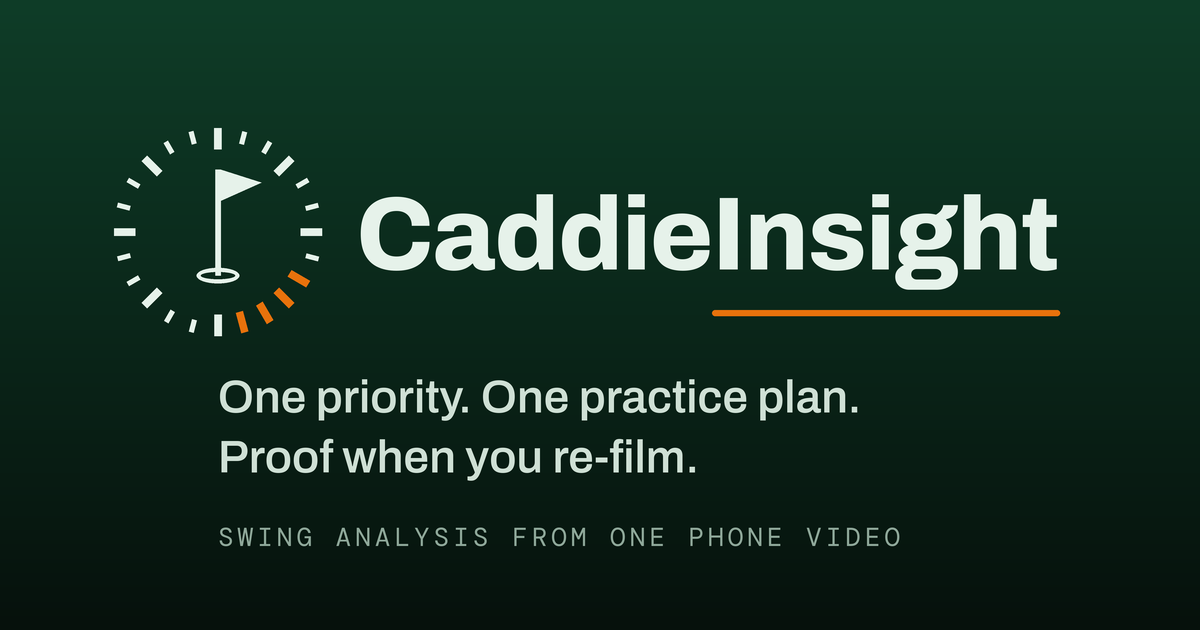
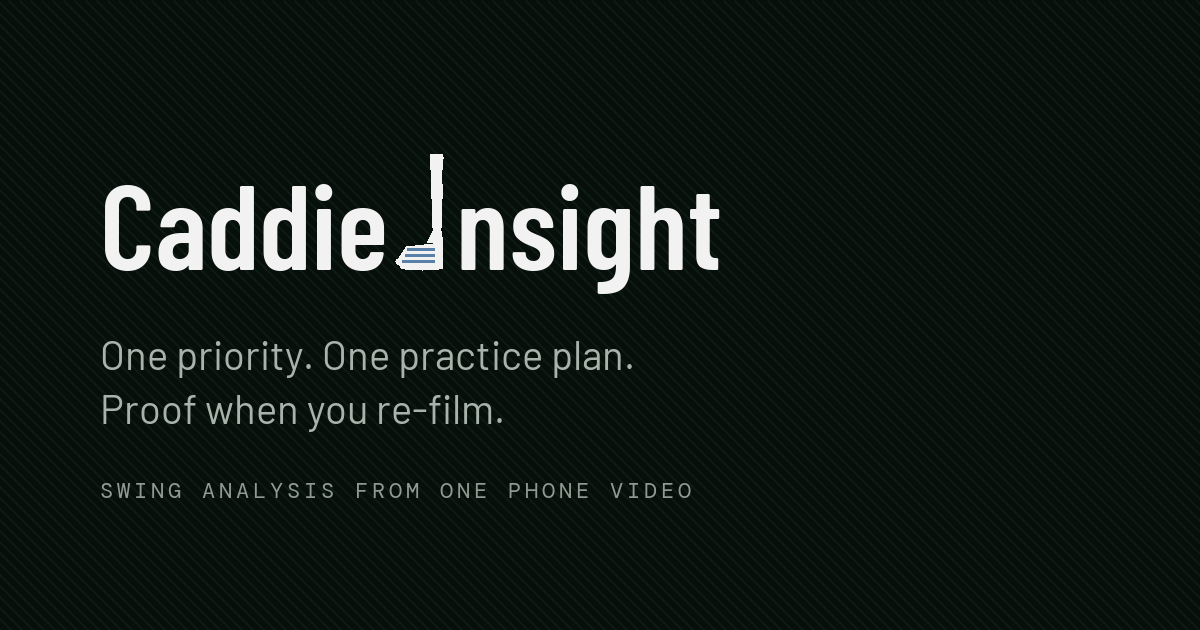
Give the app one paper header and put the hero on the field
Two surfaces existed in the app shell and only one of them was reachable.
.sl-header--premium carried a complete parallel dark treatment — 31 override
rules — and the app applied it unconditionally, so the "premium" variant WAS
the app header and the base .sl-header rule underneath it had been unreachable
for long enough to still be carrying rgba(238,242,239,.92) from before the
field inversion. Mockups 1a and 1c draw one paper header with a hairline under
it, so the overrides and both dead class hooks are gone and the base rule is
the only one left.

The premium_chrome flag itself survives on the storefront, where it selects
which navigation a page shows. That is product logic; it merely used to also
carry a colour.

Two things were rescued on the way out rather than deleted with the treatment
they happened to live under:

  - The compact 64px phone header. Cosmetic treatment, non-cosmetic 8px at
    the top of every phone screen.
  - The mobile-menu CTA contrast gate. It guarded a real defect — a CTA rule
    that sets ink and inherits a background it was not written for, once
    1.57:1 — so it moved to .sl-header__cta, which carries the pair now and
    which the mobile menu shares. Deleting it would have retired a live
    guarantee along with a dead selector.

The signed-out hero is a FIELD: it sits on a dark photograph, so every
--sl-ink* in its 61 rules resolved to near-black and painted the headline into
the background. Remapped onto the field ramp.
[…]

diff --git a/tests/test_app_storefront_parity.py b/tests/test_app_storefront_parity.py
@@ -283,20 +283,38 @@ def test_app_and_storefront_share_tour_caddie_type_stack():
     assert total < 100_000, total
 
 
-def test_app_shell_uses_homepage_premium_chrome_and_footer():
-    assert '<body class="sl-premium-chrome' in LAYOUT
-    assert '<header class="sl-header sl-header--premium"' in LAYOUT
+def test_app_shell_uses_one_paper_header_and_the_shared_footer():
+    """Industry has ONE header, on paper.
+
+    This used to assert the app adopted the storefront's dark "premium"
+    chrome, which the app applied unconditionally — so the premium variant
+    *was* the app header, and the base .sl-header rule underneath it was
+    unreachable, still carrying a pre-inversion light background nothing
+    rendered. 31 override rules and both dead class hooks are gone.
+
+    The premium_chrome flag itself survives on the STOREFRONT, where it
+    selects which navigation a page shows. That is product logic and is
+    covered by tests/test_storefront_header.py; it has nothing to do with the
+    colour it used to also carry.
+    """
+    assert '<header class="sl-header"' in LAYOUT
+    # Search the TEMPLATE, not its commentary. The surviving .sl-header rule
+    # carries a comment naming both retired hooks and explaining what was
+    # removed and why; a substring check over the raw file would forbid the
+    # template from recording its own history, which is the opposite of what
+    # this codebase wants from a comment.
+    code = re.sub(r"\{#.*?#\}", "", LAYOUT, flags=re.S)
+    assert "sl-header--premium" not in code
+    assert "sl-premium-chrome" not in code
     assert 'class="sl-app-banner' in LAYOUT
     assert 'class="sl-app-footer"' in LAYOUT
     assert 'class="sl-app-footer__inner"' in LAYOUT
-    assert ".sl-premium-chrome .sl-menu .sl-menu__panel" in LAYOUT
-    # These two used to be pinned as the literals `rgba(6, 17, 12, .96)` and
-    # `#f07a18`. Pinning a literal pins the wrong thing: it survives a palette
-    # change by forcing the OLD colour to stay somewhere in the file, which is
-    # precisely the fork the token sheet exists to prevent. 92 literals in this
-    # template were mapped onto tokens; these are two of them, and the
-    # assertion now checks that the menu panel and the signal are DERIVED.
-    assert "background: rgba(var(--sl-night-rgb), .96);" in LAYOUT
+    # The header is a translucent paper bar over the ground it sticks to, and
+    # it is DERIVED rather than pinned as a literal: pinning a literal pins
+    # the wrong thing, because it survives a palette change by forcing the old
+    # colour to stay somewhere in the file — precisely the fork the token
+    # sheet exists to prevent.
+    assert "background: rgba(var(--sl-cream-rgb), 0.94);" in LAYOUT
     # The signal colour must NOT be a background anywhere in the shell. This
     # assertion originally pinned `background: #f07a18` on the header CTA, so
     # re-pointing it at the token preserved the very thing the palette forbids:
@@ -313,7 +331,10 @@ def test_app_shell_uses_homepage_premium_chrome_and_footer():
     assert not re.search(r"#[0-9a-fA-F]{6}\b", below), re.findall(
         r"#[0-9a-fA-F]{6}\b", below
     )
-    assert ".sl-header--premium .sl-header__inner { min-height: 64px;" in LAYOUT
+    # The compact phone header, kept when the dark chrome it used to hang off
+    # was removed. The treatment was cosmetic; the 8px it takes off a 72px bar
+    # at the top of every phone screen is not.
+    assert ".sl-header, .sl-header__inner { min-height: 64px; }" in LAYOUT
     assert "@media (max-width: 560px)" in LAYOUT
     assert ".sl-app-banner__detail { display: none; }" in LAYOUT
 

diff --git a/tests/test_premium_accessibility.py b/tests/test_premium_accessibility.py
@@ -70,16 +70,23 @@ def _resolve(value: str) -> str:
     return value
 
 
-def test_mobile_menu_cta_ink_sits_on_the_background_it_was_written_for():
+def test_menu_cta_ink_sits_on_the_background_it_was_written_for():
     """This rule once set only the ink, leaving the base green background
     underneath: #06110c on #0f3d28 is 1.57:1, effectively unreadable. The
-    bottom tab bar's More button routes into this menu, so it is a primary
+    bottom tab bar's More button routes into this CTA, so it is a primary
     surface, not a corner.
 
     Both declarations still have to be PRESENT — that is the actual defect
     this guards, and it is unchanged by resolving tokens.
+
+    It used to be checked at `.sl-premium-chrome .sl-menu .sl-menu__cta`,
+    the dark-chrome override. Industry has one paper header and that whole
+    parallel treatment is gone, so the check moved to `.sl-header__cta` —
+    the rule that actually carries the pair now, and the one the mobile menu
+    shares (the element takes both classes). Deleting the test instead would
+    have retired a live guarantee along with a dead selector.
     """
-    selector = ".sl-premium-chrome .sl-menu .sl-menu__cta"
+    selector = ".sl-header__cta"
     ink = _resolve(_declaration(selector, "color"))
     background = _resolve(_declaration(selector, "background"))
 

diff --git a/tests/test_premium_secondary.py b/tests/test_premium_secondary.py
@@ -174,18 +174,18 @@ def test_cached_offline_shell_is_anonymous_while_drills_keep_pro_header(
     assert offline.headers["cache-control"] == "public, max-age=300"
     assert "Private Golfer Name" not in offline.text
     assert "data-pro-member-nav" not in offline.text
-    assert 'class="sl-premium-chrome sl-reduced-motion"' not in offline.text
+    assert 'class="sl-reduced-motion"' not in offline.text
 
     drills = client.get("/drills")
     assert drills.status_code == 200
     assert drills.headers["cache-control"] == "private, no-store"
     assert "Private Golfer Name" in drills.text
     assert "data-pro-member-nav" in drills.text
-    assert 'class="sl-premium-chrome sl-reduced-motion"' in drills.text
+    assert 'class="sl-reduced-motion"' in drills.text
     assert "a free account</a> gets" not in drills.text
 
     personalized = client.get("/progress")
-    assert 'class="sl-premium-chrome sl-reduced-motion"' in personalized.text
+    assert 'class="sl-reduced-motion"' in personalized.text
 
     worker = client.get("/service-worker.js").text
     # v5 moved the precache off the retired swinglab-* lockups — the offline

diff --git a/store-assets/make_brand.py b/store-assets/make_brand.py
@@ -269,7 +269,12 @@ def main() -> None:
         "pwa-icon-maskable-512.png": (STATIC,),
         "app-icon-1024.png": (MOBILE,),
         "caddieinsight-favicon.png": (STATIC, THEME),
-        "og-caddieinsight.png": (THEME,),
+        # Both surfaces, not just the theme. The share card is one of the
+        # three images tests/test_app_storefront_parity.py holds to identical
+        # bytes across the two surfaces, and shipping it to the theme alone
+        # left the app serving the previous brand's card — invisible until
+        # somebody shared an app link.
+        "og-caddieinsight.png": (STATIC, THEME),
     }
     for name, targets in ship.items():
         for target in targets:
